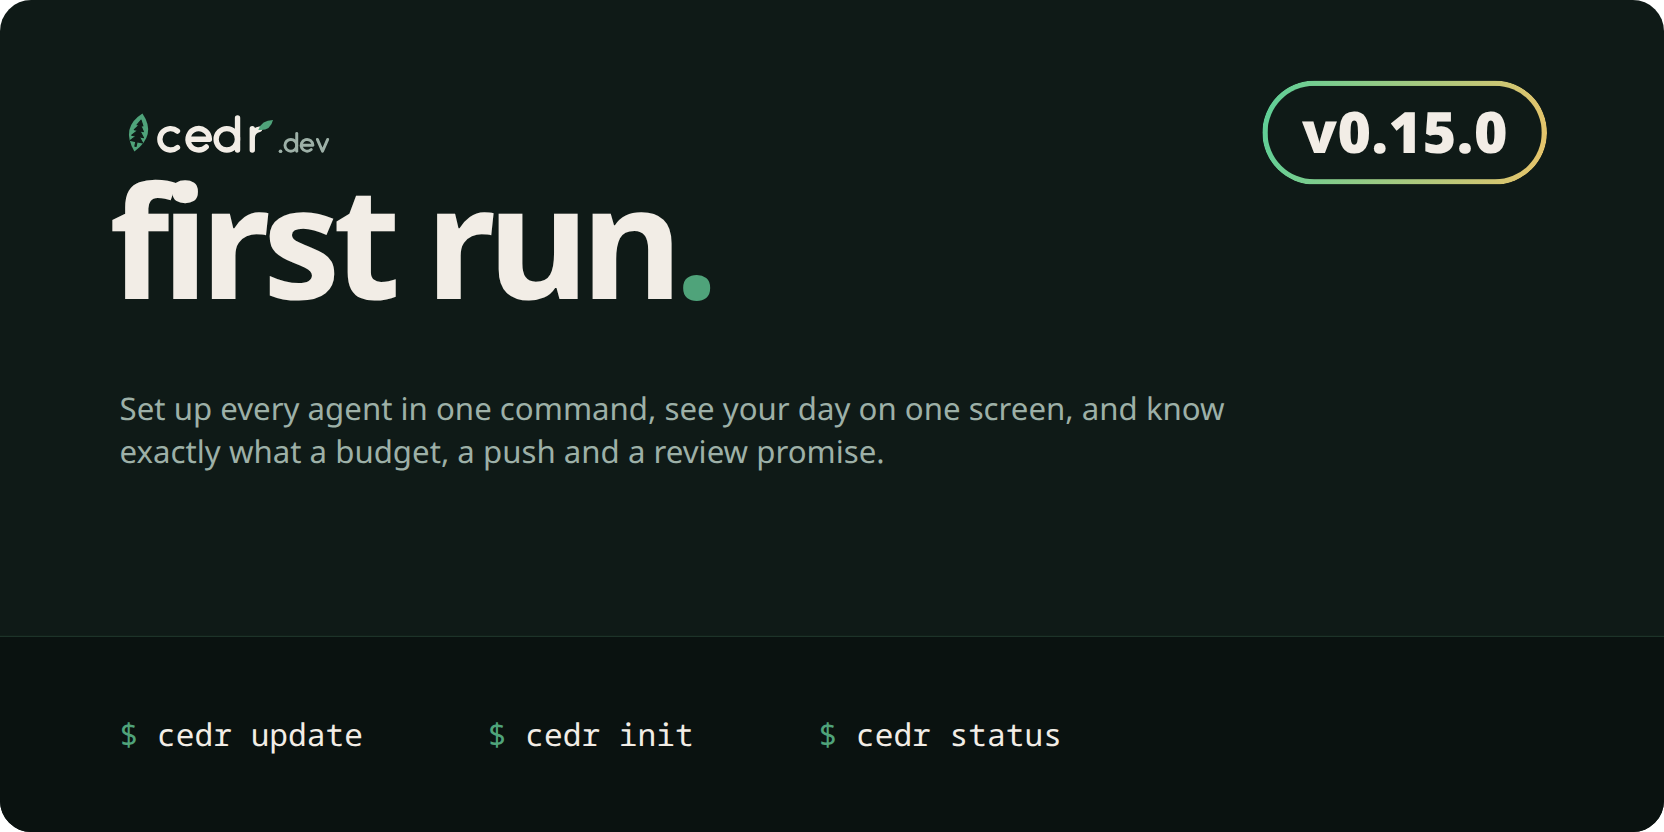
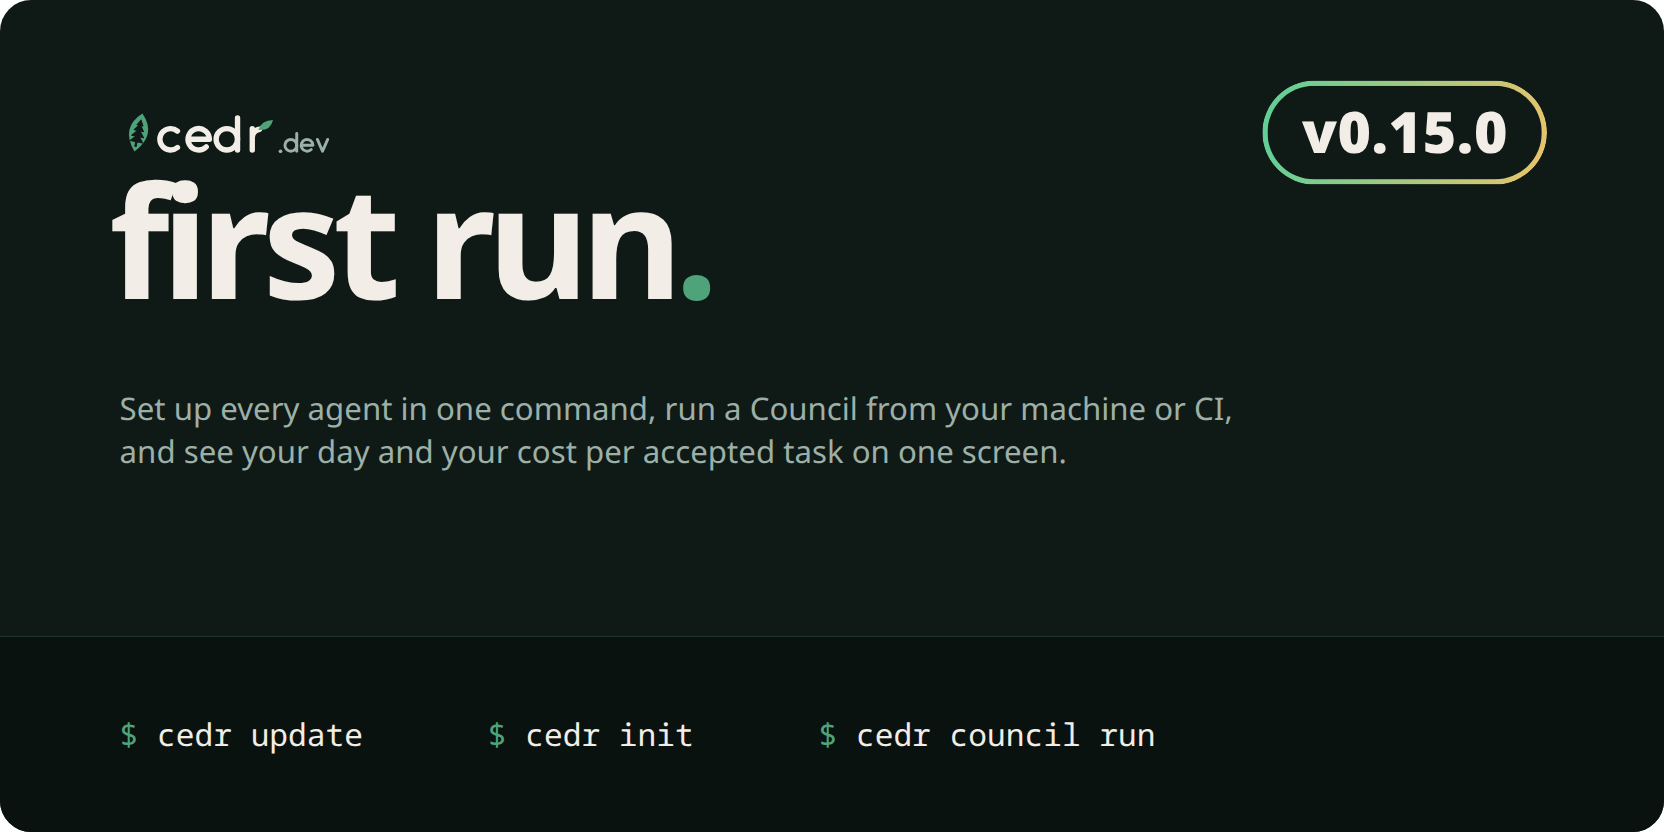
chore(release): add council run, ci output and cost per accepted task to cedr 0.15.0
v0.15.0 is not yet tagged, so the Council runner and Action, SARIF and
GitLab output, the sticky pull request comment and Route's cost per
accepted task join it; the changelog entry and hero now cover them.

Changed region(s): [[0.0625, 0.4688, 0.75, 0.5625], [0.5625, 0.875, 0.6875, 0.9062]]

diff --git a/banner/releases/v0.15.0.html b/banner/releases/v0.15.0.html
@@ -20,6 +20,6 @@ h1{margin:0;font-weight:750;letter-spacing:-.02em}
 </style></head><body><div class="bn">
 <div style="position:absolute;left:90px;top:62px;right:90px;display:flex;justify-content:space-between;align-items:center"><svg viewBox="0 -1 320 66" height="34" role="img" aria-label="cedr.dev"><defs><mask id="lb" maskUnits="userSpaceOnUse" x="0" y="0" width="64" height="64"><rect width="64" height="64" fill="#fff"/><g fill="#000" stroke="#000" stroke-width="1.6" stroke-linejoin="round"><path d="M32 13L36.5 21H27.5Z"/><path d="M32 19L39 29H25Z"/><path d="M32 27L41 38H23Z"/><path d="M32 35L41.5 46H22.5Z"/><path d="M31 45H33V53H31Z"/></g></mask></defs><g transform="rotate(12 32 32)"><path d="M32 3Q60 30 32 61Q4 30 32 3Z" fill="#4FA37A" mask="url(#lb)"/></g><g transform="translate(60 2)"><g fill="none" stroke="#F2EDE6" stroke-width="8" stroke-linecap="round" stroke-linejoin="round"><path d="M30.28 27.74A16 16 0 1 0 30.28 52.26"/><path d="M46 40H78A16 16 0 1 0 73.31 51.31"/><circle cx="104" cy="40" r="16"/><path d="M120 8V56"/><path d="M142 56V24M142 38C142 30 147 26 153 25"/><path d="M151 26Q156 11 173 11Q169 28 151 26Z" fill="#4FA37A" stroke="none"/><g transform="translate(182 27) scale(.55)" stroke="#9DB0A7" stroke-width="8"><circle cx="4" cy="56" r="5" fill="#9DB0A7" stroke="none"/><circle cx="32" cy="40" r="16"/><path d="M48 8V56"/><path d="M60 40H92A16 16 0 1 0 87.31 51.31"/><path d="M104 24L118 56L132 24"/></g></g></g></svg><span class="ver">v0.15.0</span></div>
 <h1 style="position:absolute;left:84px;top:128px;font-size:120px;line-height:.95;letter-spacing:-.05em">first run<span class="g">.</span></h1>
-<p class="muted" style="position:absolute;left:92px;top:298px;font-size:24px;margin:0;width:900px">Set up every agent in one command, see your day on one screen, and know exactly what a budget, a push and a review promise.</p>
+<p class="muted" style="position:absolute;left:92px;top:298px;font-size:24px;margin:0;width:900px">Set up every agent in one command, run a Council from your machine or CI, and see your day and your cost per accepted task on one screen.</p>
 <div class="mono" style="position:absolute;left:0;right:0;bottom:0;height:150px;background:#0a1210;border-top:1px solid #1d3329;display:flex;align-items:center;justify-content:flex-start;gap:96px;padding:0 92px;font-size:24px;white-space:nowrap">
-  <span><span class="p">$</span> cedr update</span><span><span class="p">$</span> cedr init</span><span><span class="p">$</span> cedr status</span></div></div></body></html>
+  <span><span class="p">$</span> cedr update</span><span><span class="p">$</span> cedr init</span><span><span class="p">$</span> cedr council run</span></div></div></body></html>

diff --git a/CHANGELOG.md b/CHANGELOG.md
@@ -6,22 +6,31 @@ Every release of the `cedr` CLI, newest first. The GitHub release notes for a ve
 
 <img src="https://raw.githubusercontent.com/Sheernox/cedr/main/assets/releases/v0.15.0.png" alt="cedr v0.15.0: first run" width="770">
 
-**v0.15.0** · 13 changes from 1 contributor
+**v0.15.0** · 23 changes from 1 contributor
 
 ### Highlights
 **Set up cedr in one command, with no account and no config to write.** `cedr init` shows what it will do, then creates starter routes for the agents on your machine, registers `cedr mcp` with Claude, Codex and Grok, and offers the hourly Monitor timer, one confirmation at a time. `cedr route init` creates the starter routes on their own. Nothing that exists is ever replaced.
 
-**See your day on one screen.** `cedr status` shows each plan's closest limit, what today and the last seven days cost at API prices, the latest picks still waiting for a verdict, and this repo's Sync and Guard state. It reads local data only, and agents get the same report as the `status` MCP tool.
+**Run a Council without an orchestrator, on your machine or in CI.** `cedr council run <route>` starts each reviewer headless and read-only in its own copy of `HEAD`, collects the reports, merges them in strict mode and prints the gate. The GitHub Action's new `council` input runs it on pull requests from the same repository and posts the findings as one pull request review, with inline comments on the changed lines.
 
-**Review a changed tool description with both texts.** When an MCP server rewrites a tool's description, `cedr guard diff`, `outdated` and `remote` now print the old text above the new one, so you can judge the change without digging out the old surface.
+**See your day on one screen, and what each model costs per accepted task.** `cedr status` shows each plan's closest limit, what today and the last seven days cost at API prices, picks still waiting for a verdict, and this repo's Sync and Guard state. `cedr route stats` now joins picks to Monitor sessions and reports cost per accepted task for each route and model.
+
+**Review a changed tool description with both texts.** When an MCP server rewrites a tool's description, `cedr guard diff`, `outdated` and `remote` print the old text above the new one.
 
 ### Features
-- **Starter routes:** `cedr route init [--harness H]... [--orchestrator H/MODEL] [--dry-run]` writes `review.code`, `code.impl`, `research.gather` and, with two or more vendors, `review.council`, using model families that resolve at pick time. It refuses to overwrite an existing file. See [Starter routes](docs/route.md#starter-routes).
+- **Starter routes:** `cedr route init [--harness H]... [--orchestrator H/MODEL] [--dry-run]` writes `review.code`, `code.impl`, `research.gather` and, with two or more vendors, `review.council`, using model families that resolve at pick time. See [Starter routes](docs/route.md#starter-routes).
 - **First-run setup:** `cedr init [--yes] [--dry-run] [--format json]` asks before each step, continues past a failed one, and ends with the doctor summary. Without a terminal or `--yes` it only previews. See [docs/onboarding.md](docs/onboarding.md).
-- **Guard over MCP:** `cedr mcp` adds read-only `guard_lint`, `guard_verify` and `guard_outdated`, returning the CLI's JSON.
+- **Council run:** `cedr council run <route> [--base REF | --diff RANGE] [--member H/M]... [--timeout SECS] [--out DIR]` supports Claude (plan mode) and Codex (read-only sandbox) today; other members are skipped and spares step in. See [Run](docs/council.md#run).
+- **Council in the Action:** inputs `council`, `council-base`, `council-timeout` and `council-comment`; reviewers use the vendor API keys from the workflow's secrets, fork pull requests are skipped, and a blocked or incomplete gate fails the step. See [docs/council.md](docs/council.md).
+- **One pull request comment:** the Action's `comment: true` keeps a single comment updated with Guard findings, server updates, Sync drift and the Compare table.
+- **SARIF and GitLab output:** `cedr guard lint`, `cedr guard verify`, `cedr sync check`, `cedr council merge` and `cedr council run` take `--format sarif` (SARIF 2.1.0, for code scanning) and `--format gitlab` (Code Quality). `council merge` also takes `--format github`.
+- **Cost per accepted task:** `cedr route verdict ... --session ID` links a pick to its Monitor session; without it, a pick matches when exactly one session of its agent and model started before its verdict. `reworked` counts as accepted for cost and is shown apart.
+- **Verdicts from outcomes:** `cedr council merge --author-pick ID` records `accepted`, `reworked` or `rejected` from the gate, `cedr compare run --pick ID` records one from the comparison, and `cedr route history --unjudged` lists picks without a verdict. Existing verdicts are never replaced.
+- **Guard over MCP:** `cedr mcp` adds read-only `guard_lint`, `guard_verify` and `guard_outdated`, and a `status` tool.
 - **Stale pins after Sync:** `cedr sync` warns when MCP entries it wrote no longer match their Guard pins and names `cedr guard lock`; `cedr sync check` reports the same as a warning.
-- **Preview a Monitor push:** `cedr monitor push --dry-run` prints the destination, the start in force, the first and last hour, rows by agent, project labels and anything missing, such as the API key. It sends and saves nothing. `monitor push` also takes `--format json`, and MCP gets `monitor_push_plan`.
-- **Council strict mode:** `cedr council merge --strict`, or `strict = true` on a council route, requires each text report to end with `End of review.`. A report without it may have been cut off: its findings still merge, but it does not count towards the quorum, and the output names the member to ask again.
+- **Preview a Monitor push:** `cedr monitor push --dry-run` prints the destination, the start in force, the first and last hour, rows by agent, project labels and anything missing, sending and saving nothing. MCP gets `monitor_push_plan`.
+- **Council strict mode:** `--strict`, or `strict = true` on a council route, requires each text report to end with `End of review.`; a report without it does not count towards the quorum.
+- **GitLab CI provenance:** Compare records the GitLab job and merge request in the saved result. It is not pushed yet: the app links GitHub Actions runs only.
 
 ### Fixes
 - **Compare budget:** `compare plan` and `compare run` now say for each variant whether its spend is `enforced` (Claude stops itself at what is left), checked `between_trials` (one trial can go over) or `unpriced`. A run that ends over budget records the excess and the trial that crossed it in `overrun`.
@@ -43,6 +52,16 @@ Every release of the `cedr` CLI, newest first. The GitHub release notes for a ve
 * feat(council): add a strict mode that refuses to pass on cut-off reports
 * fix(monitor): save the push start before reading rows
 * chore(release): set up cedr in one command and see the day with cedr status as cedr 0.15.0
+* feat(guard): add sarif and gitlab output and gitlab ci provenance
+* feat(council): emit merged findings as annotations, sarif and gitlab
+* feat(action): add one sticky pull request comment
+* fix(compare): push ci provenance only for github actions runs
+* feat(council): run reviewers and merge their reports
+* feat(action): run council and post one pull request review
+* feat(route): report cost per accepted task
+* feat(route): record verdicts from council and compare
+* docs(readme): lead the quick start with commands that need no account
+* chore(release): add council run, ci output and cost per accepted task to cedr 0.15.0
 
 **Full Changelog**: https://github.com/Sheernox/cedr/compare/v0.14.1...v0.15.0
 </details>
